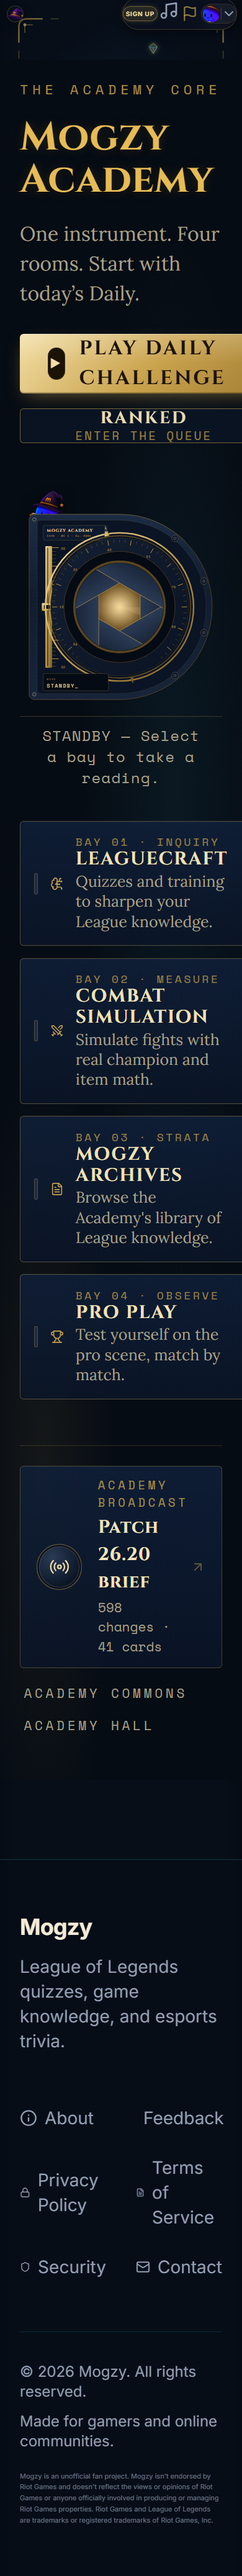
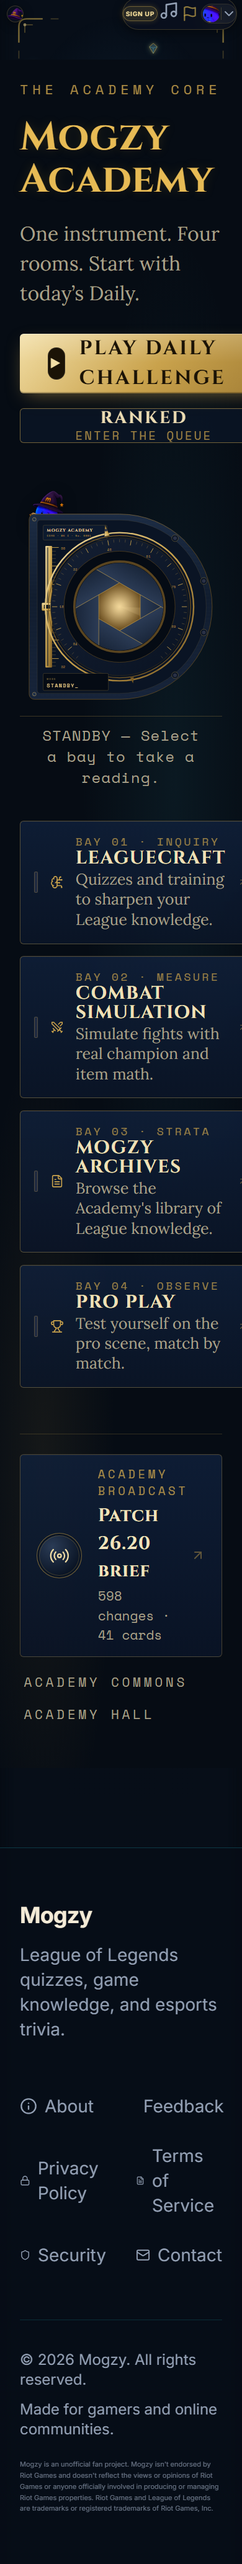
Academy Core V1: bay plate fit, hub-visited parity, handoff + evidence
- Mounted bay plates widened (272x66) and their labels sized in container
  units: percent padding on an absolutely positioned overlay resolved against
  the stage, not the plate, so titles overflowed at 1920x1080.
- markHubVisited() on mount: the Quiz lobby's onboarding gate otherwise
  bounces a fresh session from /quiz?play=1 back to /lol.
- Reduced motion disables transitions outright (no 0.01ms stubs).
- Playwright suite refreshed the evidence set; handoff written.

diff --git a/src/pages/dev/academy-core/academy-core.css b/src/pages/dev/academy-core/academy-core.css
@@ -417,12 +417,15 @@
 }
 
 /* Mounted: the SVG draws the plate; the link is the real text on top of it. */
+/* Percent padding on an absolutely positioned box resolves against the STAGE,
+   not the plate, so the plate's own proportions are written in container
+   units: the plate is 272/860 of the stage width. */
 .acore-bay-link-mounted {
   position: absolute;
   box-sizing: border-box;
-  padding: 0 4.5% 0 11%;
+  padding: 0 2.2cqw 0 3.2cqw;
   pointer-events: auto;
-  gap: 4%;
+  gap: 1.1cqw;
 }
 
 .acore-bay-link-mounted .acore-bay-lampcell {
@@ -465,28 +468,33 @@
 .acore-bay-title {
   font-family: Cinzel, Georgia, serif;
   font-weight: 700;
-  letter-spacing: 0.06em;
+  letter-spacing: 0.05em;
   text-transform: uppercase;
   color: #efe0b8;
   transition: color 250ms ease, text-shadow 250ms ease;
-  white-space: nowrap;
+  line-height: 1.05;
 }
 
 .acore-bay-link-mounted .acore-bay-title {
-  font-size: clamp(10px, 1.62cqw, 16px);
+  font-size: clamp(10px, 1.45cqw, 14.5px);
 }
 
 .acore-bay-arrow {
   flex: 0 0 auto;
   margin-left: auto;
+  flex-shrink: 0;
   color: var(--acore-brass);
   opacity: 0.45;
   transition: opacity 250ms ease, transform 300ms cubic-bezier(0.2, 0.8, 0.2, 1);
 }
 
 .acore-bay-link-mounted .acore-bay-arrow {
-  width: clamp(12px, 1.8cqw, 18px);
-  height: clamp(12px, 1.8cqw, 18px);
+  width: clamp(11px, 1.5cqw, 15px);
+  height: clamp(11px, 1.5cqw, 15px);
+}
+
+.acore-bay-link-mounted .acore-bay-text {
+  flex: 1 1 auto;
 }
 
 .acore-bay-link[data-active="true"] .acore-bay-title {

diff --git a/src/pages/dev/academy-core/AcademyCoreInstrument.tsx b/src/pages/dev/academy-core/AcademyCoreInstrument.tsx
@@ -52,7 +52,7 @@ const BEZEL_R = 200;
 const LENS_R = 118;
 const PAD_R = 238;
 const BAY_ANCHOR_R = 300;
-export const BAY_PLATE = { width: 240, height: 64 } as const;
+export const BAY_PLATE = { width: 272, height: 66 } as const;
 
 const DEG = Math.PI / 180;
 export function polar(r: number, deg: number) {

diff --git a/docs/handoffs/ACADEMY_CORE_V1_HANDOFF.md b/docs/handoffs/ACADEMY_CORE_V1_HANDOFF.md
@@ -1,0 +1,102 @@
+# Academy Core V1 — Handoff
+
+**Status:** built, tested, inspected; **waiting for the owner's visual acceptance**. Nothing merged, deployed or changed in production.
+
+| | |
+|---|---|
+| Branch | `design/academy-core-v1` (worktree `.worktrees/academy-core-v1`) |
+| Base | `origin/main` @ `7be45341` (the brief's `4b13c042` baseline is an ancestor; base was advanced per the brief) |
+| Head | see `git log -1 design/academy-core-v1` (two commits: implementation, then this handoff + plate fix) |
+| Preview route | **`/lol/dev/academy-core`** — alias **`/dev/academy-core`** redirects there |
+| Run locally | `npx vite --host 127.0.0.1 --port 8125` from the worktree, open `http://127.0.0.1:8125/dev/academy-core` |
+
+## Objective
+
+One complete, economical **Academy Core Home Hub** inside the real React frontend: an authored precision instrument, four permanently legible room entrances, and an obvious way to start playing — the approved concept, built once.
+
+## Decisions (and why)
+
+- **Route under `/lol/`.** The League theme, HUD palette and the pre-paint colour in `index.html` all key on the `/lol/`, `/quiz/`, `/combat-lab/` prefixes. Existing dev previews that need the theme (`/lol/dev/pro-play-arena`, `/lol/dev/worlds-experience` + `/dev/worlds-experience` alias) set the pattern, so the page is `/lol/dev/academy-core` and `/dev/academy-core` is a `<Navigate>` alias. Always registered (like `/dev/play-scroll`), `noindex`, so a PR preview deployment can show it.
+- **2D SVG + CSS + Framer springs, no WebGL.** Three articulated parts (index cursor, six-blade iris, vernier carriage) are driven by `useSpring` values writing SVG attributes directly; everything else is CSS transitions and three very slow keyframes. No rAF loop, no canvas.
+- **Daily** = `<Link to="/quiz/daily-challenge" state={DAILY_START_STATE}>` — the Quiz page's own start-or-resume contract. **Ranked** = `<Link to="/quiz?play=1">` — the lobby opens its Play record on mount and applies every account/role/availability gate itself. `/quiz/ranked` is never linked.
+- **Hub-visited parity.** The Quiz lobby's onboarding gate bounces a first session that has not seen the hub back to `/lol`. The page sets the same `sessionStorage` flag the Hall sets (`markHubVisited()`), so Ranked and the Leaguecraft bay are not answered with a detour. Client-side only.
+- **Real data, two reads, nothing invented.** Daily status via the existing one-shot `useDailyChallengeStatus` (same request the lobby makes; a guest gets 401 and the page shows no status). Patch label via the Hall's own `["patch-reports"]` query key (shared cache, one list request; no detail/manifest fetch). Status copy renders only when the service has answered.
+- **Analytics.** No `hub_entered` from a preview route (it would inflate the real Hall's count). The diagnostic `leaguecraft_cta_clicked` is reused for the two doors into `/quiz` with distinct `cta` values (`academy_core_bay`, `academy_core_ranked`); the canonical open fires on `/quiz` itself, as today.
+- **Commons not embedded.** The Commons is a 2.2 MB painted full-viewport room owned by `LolHub`; it is linked as `/lol#academy-commons` exactly as the brief allows. **Tradeoff:** the app has no hash-scroll handler and the Hall mounts lazily, so the link lands on the Hall's first screen with the Commons one "Explore the Academy" step below. Adding a hash handler would mean editing the production Hall, which the brief forbids; left for a follow-up decision.
+- **Mogzy** is the existing `peeking` plate (192 px WebP) peeking over the chassis; no new mascot art. The full guide substrate was not mounted (the readout strip carries the one-line previews instead).
+- **Scoped styles** in `src/pages/dev/academy-core/academy-core.css` (`.acore-*`); `index.css` untouched (asserted by a test).
+
+## The design, in five details
+
+1. **The D-chassis.** A brushed-metal body that is rectangular on the left (maker's plate, vernier column, readout) and semicircular on the right, concentric with the aperture. The four bays mount on brackets outside the arc, wired by conduits to contact pads the cursor sweeps to.
+2. **Six-blade iris.** Each blade is a half-plane in its own rotated frame, so one spring value opens a true hexagonal aperture: wide for INQUIRY, stopped down for MEASURE, open for STRATA / OBSERVE.
+3. **Measurement language per room**, inside the lens: a sweeping probe wedge and pulsing rings (Leaguecraft), caliper jaws closing on a dimension line (Combat), five translucent strata fanning apart (Archives), a reticle squaring up with a tracking mark (Pro Play). Distinguished by form, not only colour.
+4. **The bezel-riding cursor and lit conduit.** Focus a bay: the cursor swings to its angle, the pad and the bay's lamp light, the conduit goes teal, the carriage slides to a new reading, the readout changes word. Leave: it all settles back to STANDBY.
+5. **Mogzy peeking over the edge**, hidden below the chassis top — one cheap plate, a lot of personality.
+
+## Files
+
+| File | What |
+|---|---|
+| `src/pages/dev/academy-core/academy-core-destinations.ts` | Registry: four rooms, CTA routes, readouts, previews (reuses `HUB_GUIDE_MODES` copy), bay angles |
+| `src/pages/dev/academy-core/AcademyCoreInstrument.tsx` | The SVG instrument; five states; springs → attributes; `compact` crop for phones |
+| `src/pages/dev/academy-core/AcademyCorePage.tsx` | Page: console (brand, Daily, Ranked, status), stage, mounted bays / bay rows, broadcast gateway, Commons/Hall links |
+| `src/pages/dev/academy-core/academy-core.css` | All styles, scoped; reduced-motion overrides |
+| `src/pages/dev/academy-core/AcademyCorePage.test.tsx` | 25 rendered contract tests (MemoryRouter + probe routes) |
+| `src/pages/dev/academy-core/academyCoreRoute.test.ts` | Route isolation pinned against source |
+| `e2e/academy-core.spec.ts` | Playwright inspection at six viewports + interactions; writes the evidence below |
+| `src/App.tsx` | +9 lines: lazy import, route, alias |
+| `src/components/Layout.tsx` | +1 path in the full-bleed list (the only shared touch) |
+| `docs/handoffs/academy-core-v1/*.png` | Evidence |
+
+## Tests and results
+
+| Suite | Result |
+|---|---|
+| `vitest run src/pages/dev/academy-core` | **25 / 25 pass** |
+| `vitest run src/App. src/components/Layout dailyChallengeEntry ads/policy` | 207 pass, **3 fail — baseline** (reproduced on untouched `origin/main` `App.tsx`: `App.routing-contract` ×2 expect `/multiplayer` routes that no longer exist; `App.routeGuards` admin platform-policies regex) |
+| `tsc --noEmit -p tsconfig.app.json` | 0 errors in changed files; **2 baseline** errors in untouched `OnboardingProfile.tsx` and `lib/identity/connections.ts` (Supabase `RejectExcessProperties`) |
+| `playwright test -c playwright.frontend.config.ts e2e/academy-core.spec.ts` | **14 / 14 pass** (needed `npx playwright install chromium` once; build 1248) |
+| Full `vitest run` | See "Full suite" below |
+
+What the Playwright suite asserts: no horizontal overflow at any size; Daily, Ranked, all four bays, patch link and Commons link inside the first screen on desktop; hover drives all five states and the readout; Tab reaches every entrance with a visible outline; Enter navigates on the first action; Daily → `/quiz/daily-challenge`, Ranked → `/quiz?play=1`; alias redirect; OS reduced-motion → `data-ambient="off"` and zero running animations inside the page; phones: actions precede the instrument, every target ≥ 44 px, no overlapping targets, a touch press engages the state and the tap routes; 200 % text zoom keeps every label with no overflow.
+
+### Full suite
+
+The full `vitest run` (≈ 1,900 files) was attempted twice on this machine and **did not complete either time**: a worker died with `FATAL ERROR: Ineffective mark-compacts near heap limit — JavaScript heap out of memory` (first with the default threads pool, then with `--pool=forks --maxWorkers=3` and a 6 GB heap), after which vitest reported `ERR_IPC_CHANNEL_CLOSED` and produced no summary. The crash happens inside existing suites (the log shows the `quiz-ranked` settlement suites running at the time) and is unrelated to this change, whose files are leaf modules nothing else imports. The repo's own CI scopes runs rather than running everything (see recent `ci(daily)` commits). The targeted suites above are the authoritative result for this change; a full-suite count is **unknown** here.
+
+## Verified routing (browser, guest session)
+
+- **Daily:** click → `/quiz/daily-challenge` with the start intent; the Daily page attempted to start immediately (no Begin screen). In this isolated browser profile the guest had no anonymous session, so the page showed its own "We couldn't start a session" state — identical to pressing Play in the lobby from the same session.
+- **Ranked:** click → `/quiz?play=1` → the Leaguecraft Play record ("Choose Mode" scroll) opened in place with the role carousel and Ranked/Daily/Invite rows. Before the hub-visited parity was added, the same click bounced to `/lol` (the lobby's gate) — that is why the flag is set.
+- **Rooms:** first click/Enter/tap → `/quiz`, `/combat-lab`, `/lol/docs`, `/lol/pro-play`.
+- **Alias:** `/dev/academy-core` → `/lol/dev/academy-core`.
+- **Commons:** `/lol#academy-commons` lands on the Hall (see Decisions).
+- **Authenticated behaviour** was not exercised: the frontend e2e persona seam needs a minted token (`e2e/.artifacts/personas.json`, absent here). No evidence was manufactured.
+
+## Performance notes
+
+| Measure | Observed |
+|---|---|
+| Added bundle (lazy, route-only) | `AcademyCorePage` JS 19.1 kB (6.2 kB gzip) + CSS 18.3 kB (4.2 kB gzip); no new dependencies |
+| Network added by the page | 2 reads: `GET /api/patch-reports`, `GET /api/daily-run/today` (401 for a guest). Everything else is the shell's own (Supabase app settings/audio catalogue). Route prefetch on bay hover is the existing `prefetchRoute` convention. |
+| Layout shift | CLS **0** (buffered `layout-shift` entries, 1366×768) |
+| Idle rendering | 3 CSS animations inside the page at idle (lens breathe 7 s, idle sweep 40 s, caret blink); all pause when the stage leaves the viewport (IntersectionObserver) or under reduced motion. Springs settle and stop. No rAF loop. Baseline for comparison: the shell itself runs 12 other animations on League pages (Hextech ambience). |
+| Transitions | Spring swings settle in ≈ 0.6 s; CSS state transitions 300–560 ms |
+
+Known mobile limitation: a touch press flips the instrument state in the ~100 ms before navigation, so phones mostly see the rows' lamp light rather than the full choreography. The row composition carries the previews permanently for that reason.
+
+## Risks / open items
+
+- The `/lol#academy-commons` hash does not scroll (needs a decision: a small hash handler in the Hall, or keep the link).
+- Scale numerals on the bezel are decorative markings (not data).
+- `.claude/launch.json` was created for the in-app browser; it is git-ignored.
+- `node_modules` in the worktree is a junction to the main checkout's (the repo's e2e README describes this sharing).
+
+## Explicit statement
+
+No merge into `main`, no deployment, no migration, no backend/Supabase/Railway/billing change, no production route change. `/lol` and `/` are untouched (asserted by `academyCoreRoute.test.ts`). Only the isolated branch was pushed.
+
+## Next task
+
+Owner visual acceptance on `/dev/academy-core` at desktop and phone. If accepted: decide the Commons hash handling, then plan the swap of `/lol` (the Hall's broadcast centerpiece, guide substrate and Commons would move in as real sections rather than links).
